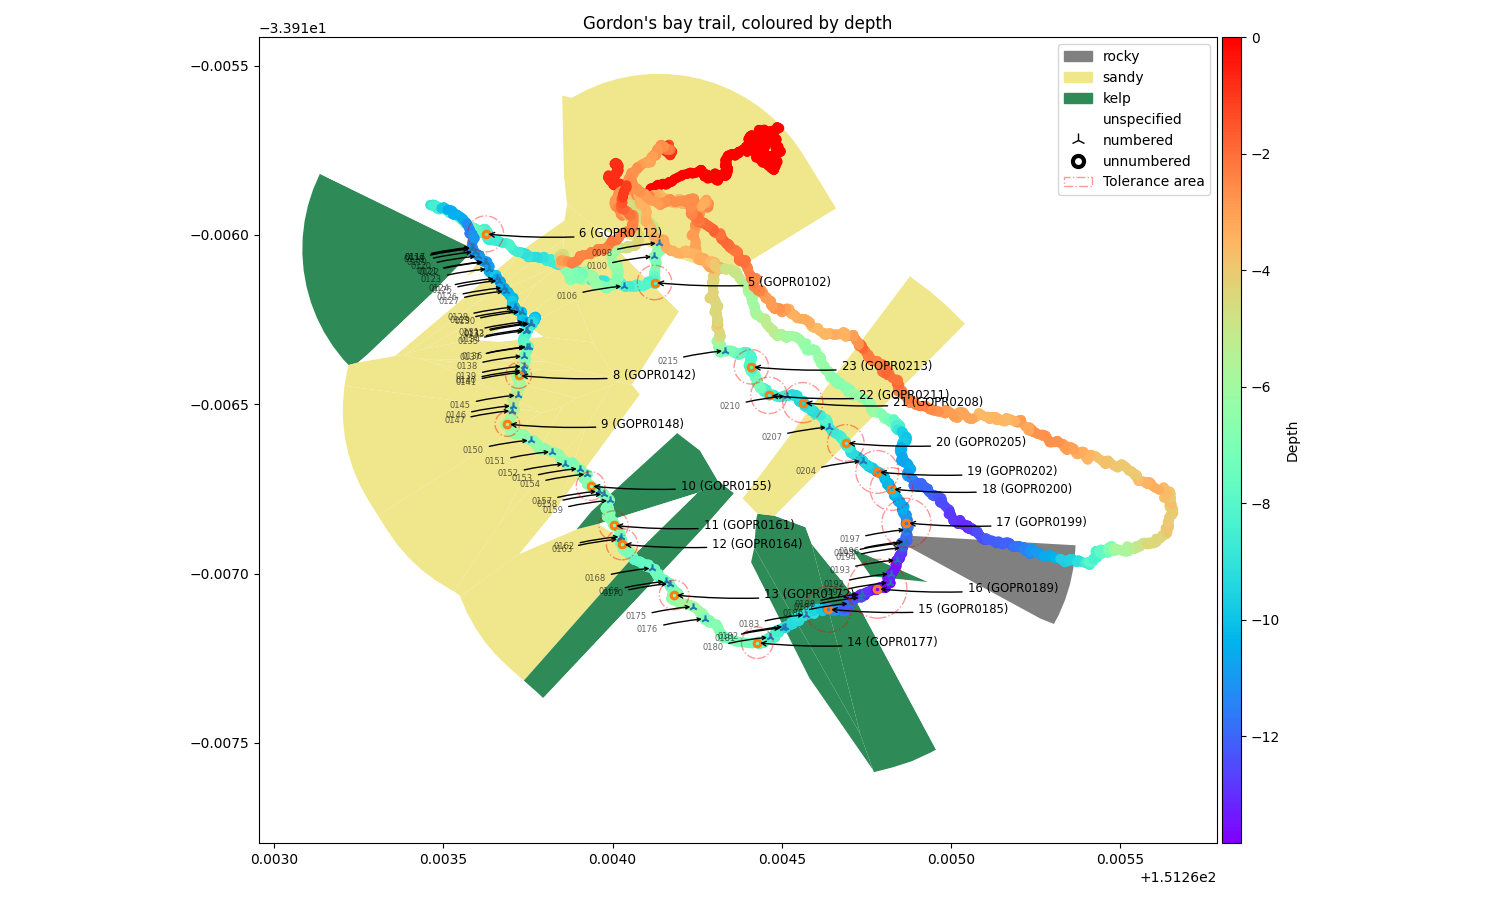
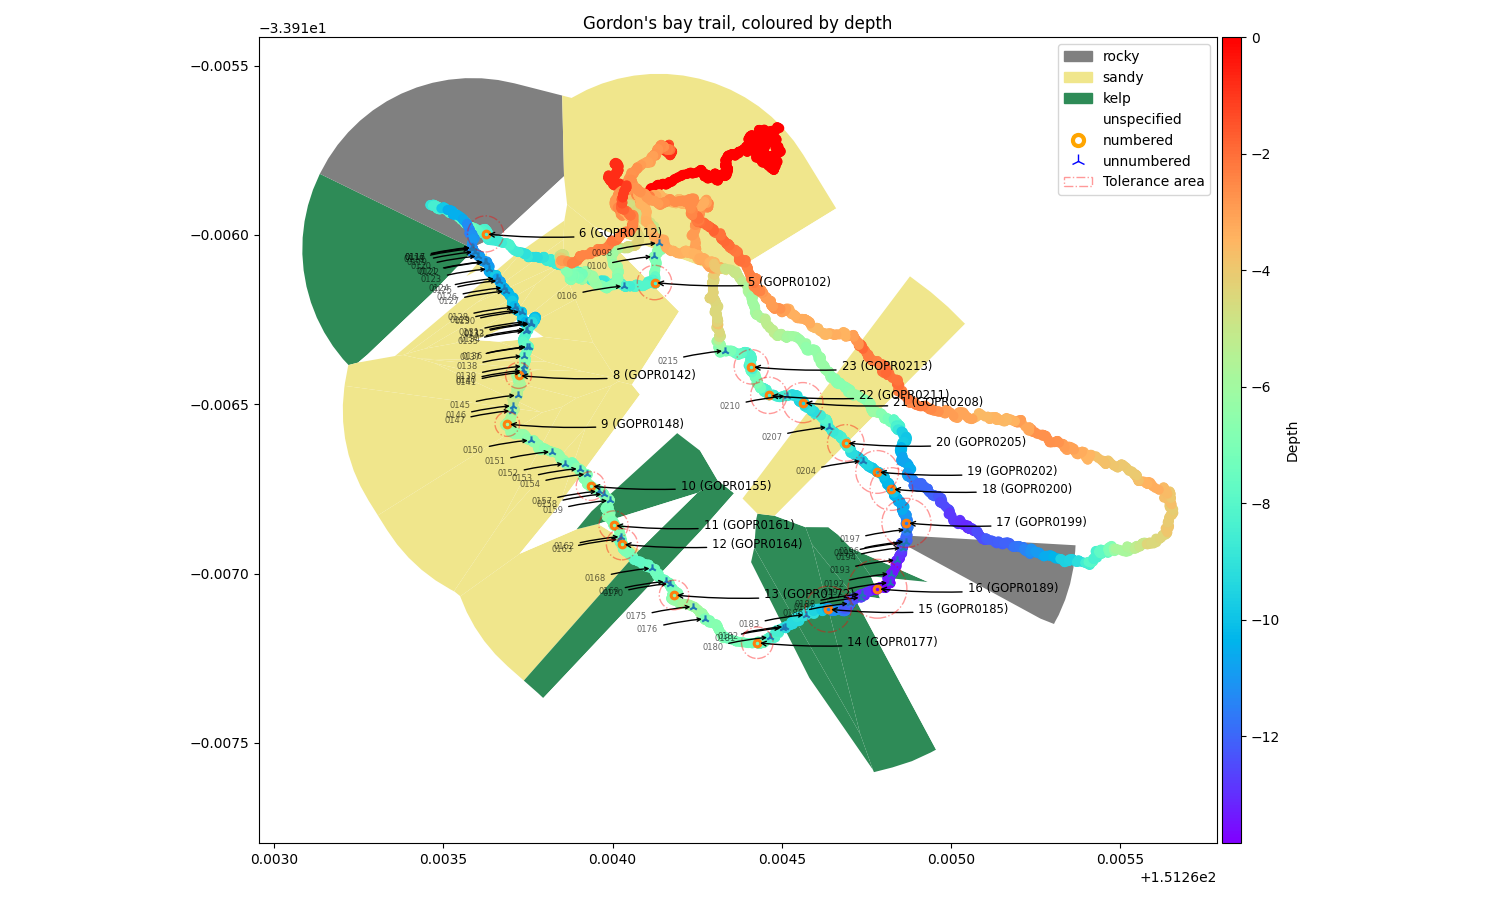
add colours to the numbered and unnumbered legend

Changed region(s): [[0.2147, 0.0622, 0.3987, 0.28], [0.5213, 0.5911, 0.5827, 0.6533], [0.7053, 0.1556, 0.736, 0.1867]]

diff --git a/photo_meta.py b/photo_meta.py
@@ -49,28 +49,28 @@ photo_meta = [
         "filename": "GOPR0104.JPG",
         "marker_type": "",
         "marker_number": "",
-        "bottom_condition": "unspecified",
+        "bottom_condition": "rocky",
     },
     {
         "dt": datetime.datetime(2024, 3, 8, 9, 35, 54),
         "filename": "GOPR0105.JPG",
         "marker_type": "",
         "marker_number": "",
-        "bottom_condition": "unspecified",
+        "bottom_condition": "rocky",
     },
     {
         "dt": datetime.datetime(2024, 3, 8, 9, 36, 7),
         "filename": "GOPR0106.JPG",
         "marker_type": "intermediate",
         "marker_number": "",
-        "bottom_condition": "unspecified",
+        "bottom_condition": "rocky",
     },
     {
         "dt": datetime.datetime(2024, 3, 8, 9, 36, 34),
         "filename": "GOPR0107.JPG",
         "marker_type": "",
         "marker_number": "",
-        "bottom_condition": "unspecified",
+        "bottom_condition": "rocky",
     },
     {
         "dt": datetime.datetime(2024, 3, 8, 9, 37, 31),

diff --git a/mapper.py b/mapper.py
@@ -307,18 +307,21 @@ intermediate_df.apply(add_intermediate_label, axis=1)
 
 import matplotlib.lines as mlines
 
-markers = {"numbered": "2", "unnumbered": "$\circ$"}
+markers = [
+    {"description": "numbered", "marker": "$\circ$", "colour": "orange"},
+    {"description": "unnumbered", "marker": "2", "colour": "blue"},
+]
 
 # Create a Line2D object for each marker type and add it to the legend handles
-for marker_type, marker in markers.items():
+for marker in markers:
     line = mlines.Line2D(
         [],
         [],
-        color="black",
-        marker=marker,
+        color=marker["colour"],
+        marker=marker["marker"],
         linestyle="None",
         markersize=10,
-        label=marker_type,
+        label=marker["description"],
     )
     legend_handles.append(line)
 
